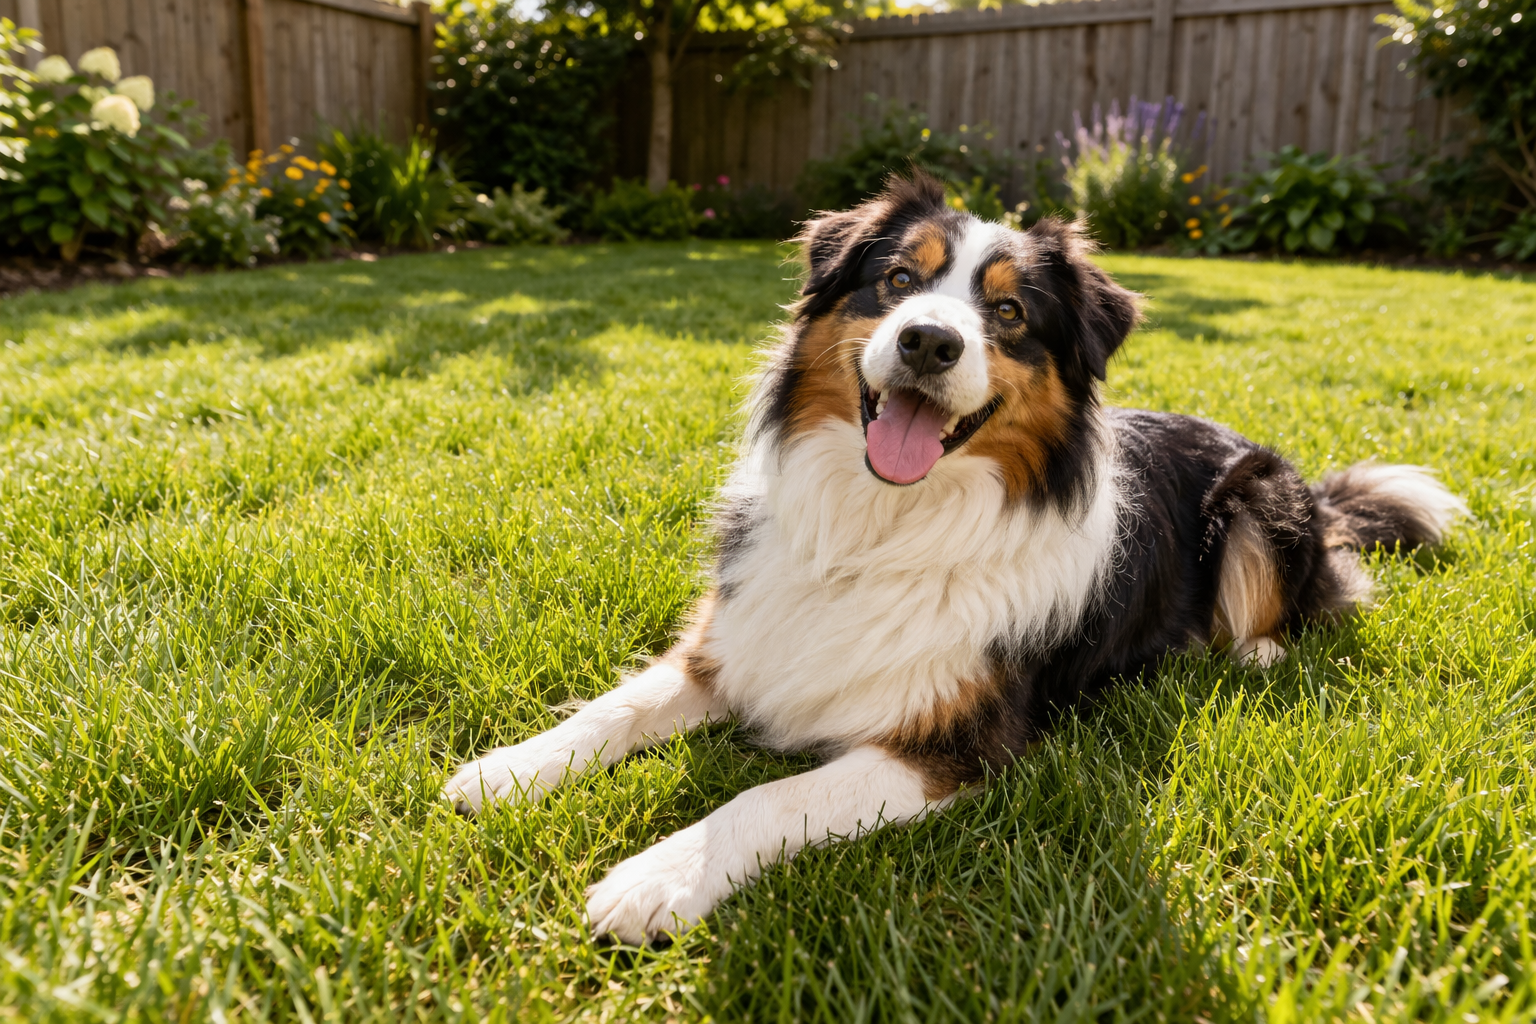
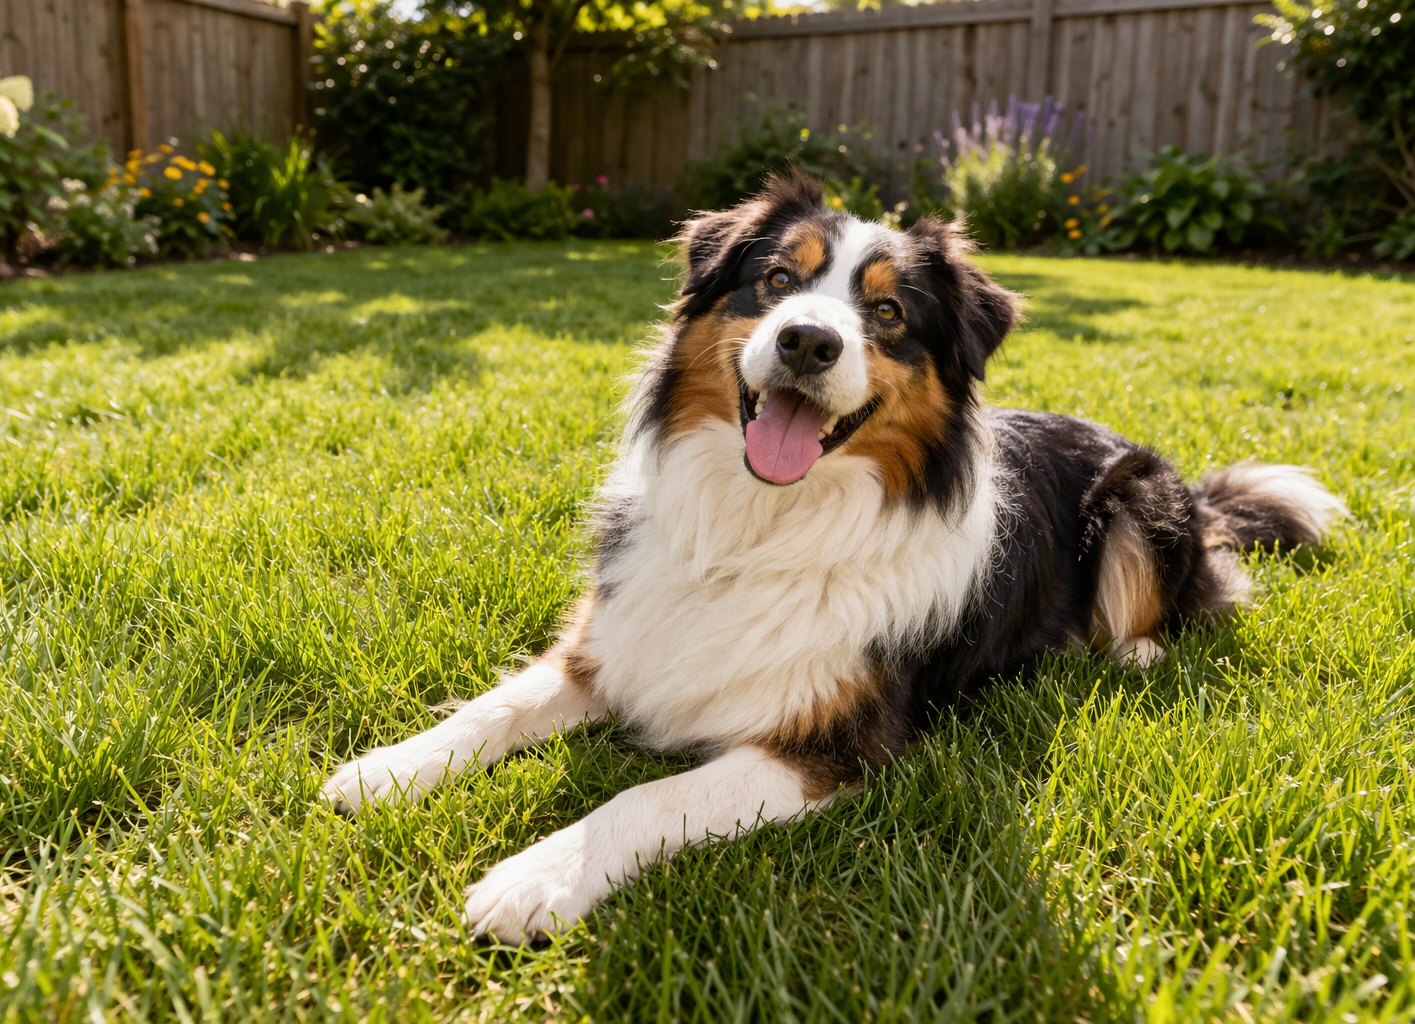
Fixes

diff --git a/lib/blog/BlogPosts.ts b/lib/blog/BlogPosts.ts
@@ -2,8 +2,8 @@ import "server-only";
 
 import {
   BLOCKS,
-  type Document,
   type Block,
+  type Document,
   type Inline,
   type Text,
 } from "@contentful/rich-text-types";
@@ -31,6 +31,7 @@ export type BlogPost = {
   title: string;
   description: string;
   date: string;
+  publishedAt: string;
   readTime: string;
   category: string;
   keywords: string[];
@@ -54,6 +55,22 @@ type ContentfulBlogPostSkeleton = EntrySkeletonType<
 >;
 
 type RichTextNode = Block | Inline | Text;
+
+const dateFormatter = new Intl.DateTimeFormat("en-US", {
+  month: "short",
+  day: "numeric",
+  year: "numeric",
+});
+
+const formatPublishDate = (value: string) => {
+  const parsedDate = new Date(value);
+
+  if (Number.isNaN(parsedDate.getTime())) {
+    return value;
+  }
+
+  return dateFormatter.format(parsedDate);
+};
 
 const mapFeaturedImage = (
   asset: Asset<undefined, string> | undefined,
@@ -135,7 +152,8 @@ const mapContentfulPost = (
     slug: entry.fields.slug,
     title: entry.fields.title,
     description,
-    date: entry.fields.publishDate,
+    date: formatPublishDate(entry.fields.publishDate),
+    publishedAt: entry.fields.publishDate,
     readTime: getReadTime(body),
     category: "Blog",
     keywords: [],

diff --git a/app/sitemap.ts b/app/sitemap.ts
@@ -6,7 +6,7 @@ export default async function sitemap(): Promise<MetadataRoute.Sitemap> {
   const baseUrl = "https://eliteyardhygiene.com";
   const posts = (await getAllPosts()).map((post) => ({
     url: `${baseUrl}/blog/${post.slug}`,
-    lastModified: post.date,
+    lastModified: post.publishedAt,
     changeFrequency: "daily" as const,
     priority: 0.8,
   }));
@@ -23,6 +23,18 @@ export default async function sitemap(): Promise<MetadataRoute.Sitemap> {
       lastModified: new Date().toISOString(),
       changeFrequency: "daily",
       priority: 0.9,
+    },
+    {
+      url: `${baseUrl}/privacy-policy`,
+      lastModified: new Date().toISOString(),
+      changeFrequency: "yearly",
+      priority: 0.2,
+    },
+    {
+      url: `${baseUrl}/terms`,
+      lastModified: new Date().toISOString(),
+      changeFrequency: "yearly",
+      priority: 0.2,
     },
     ...posts,
   ];

diff --git a/components/home/service-area/ServiceAreaSection.tsx b/components/home/service-area/ServiceAreaSection.tsx
@@ -5,7 +5,7 @@ import shared from "@/styles/shared.module.css";
 
 import styles from "./styles.module.css";
 
-const areas = [
+export const serviceAreas = [
   "Buffalo Grove",
   "Wheeling",
   "Palatine",
@@ -38,7 +38,7 @@ export const ServiceAreaSection = () => {
             request and we may still be able to help.
           </p>
           <div className={styles.areaTags}>
-            {areas.map((area) => (
+            {serviceAreas.map((area) => (
               <span key={area}>{area}</span>
             ))}
           </div>

diff --git a/components/seo/StructuredData.tsx b/components/seo/StructuredData.tsx
@@ -1,0 +1,12 @@
+type StructuredDataProps = {
+  data: Record<string, unknown> | Array<Record<string, unknown>>;
+};
+
+export const StructuredData = ({ data }: StructuredDataProps) => {
+  return (
+    <script
+      type="application/ld+json"
+      dangerouslySetInnerHTML={{ __html: JSON.stringify(data) }}
+    />
+  );
+};

diff --git a/app/robots.ts b/app/robots.ts
@@ -1,0 +1,12 @@
+import type { MetadataRoute } from "next";
+
+export default function robots(): MetadataRoute.Robots {
+  return {
+    rules: {
+      userAgent: "*",
+      allow: "/",
+    },
+    sitemap: "https://eliteyardhygiene.com/sitemap.xml",
+    host: "https://eliteyardhygiene.com",
+  };
+}

diff --git a/components/home/faq/FaqSection.tsx b/components/home/faq/FaqSection.tsx
@@ -4,7 +4,7 @@ import shared from "@/styles/shared.module.css";
 
 import styles from "./styles.module.css";
 
-const faqs = [
+export const faqs = [
   {
     question: "How often should my yard be cleaned?",
     answer:

diff --git a/components/seo/index.ts b/components/seo/index.ts
@@ -1,0 +1,1 @@
+export { StructuredData } from "./StructuredData";
